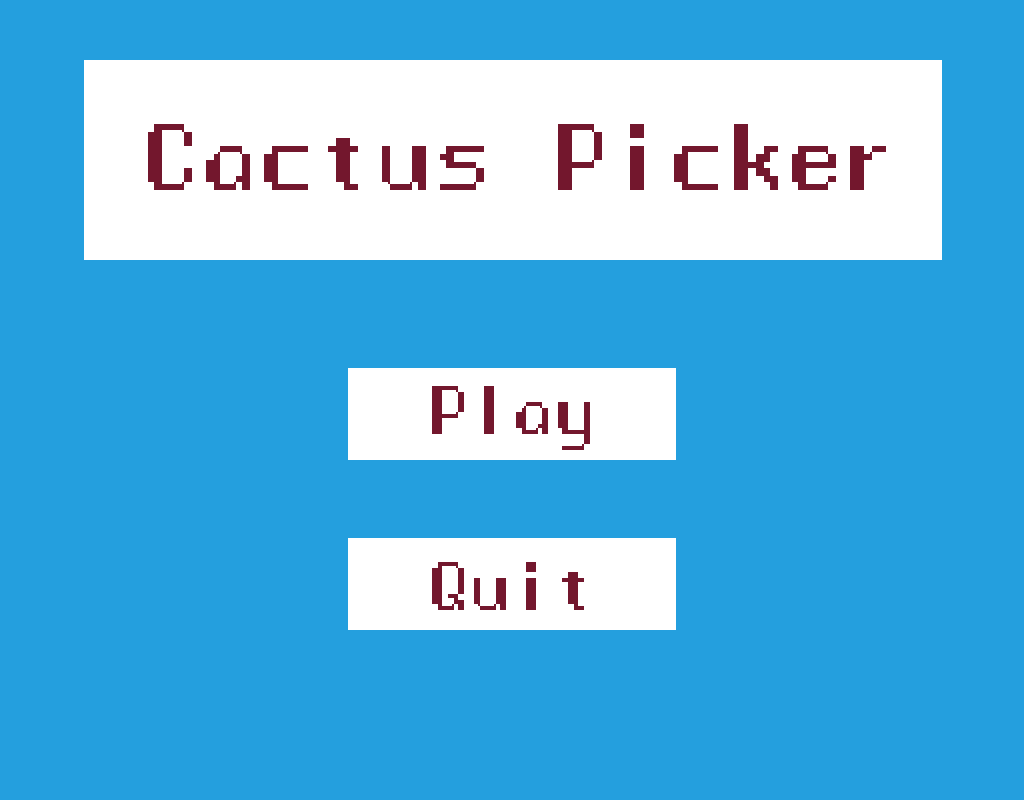
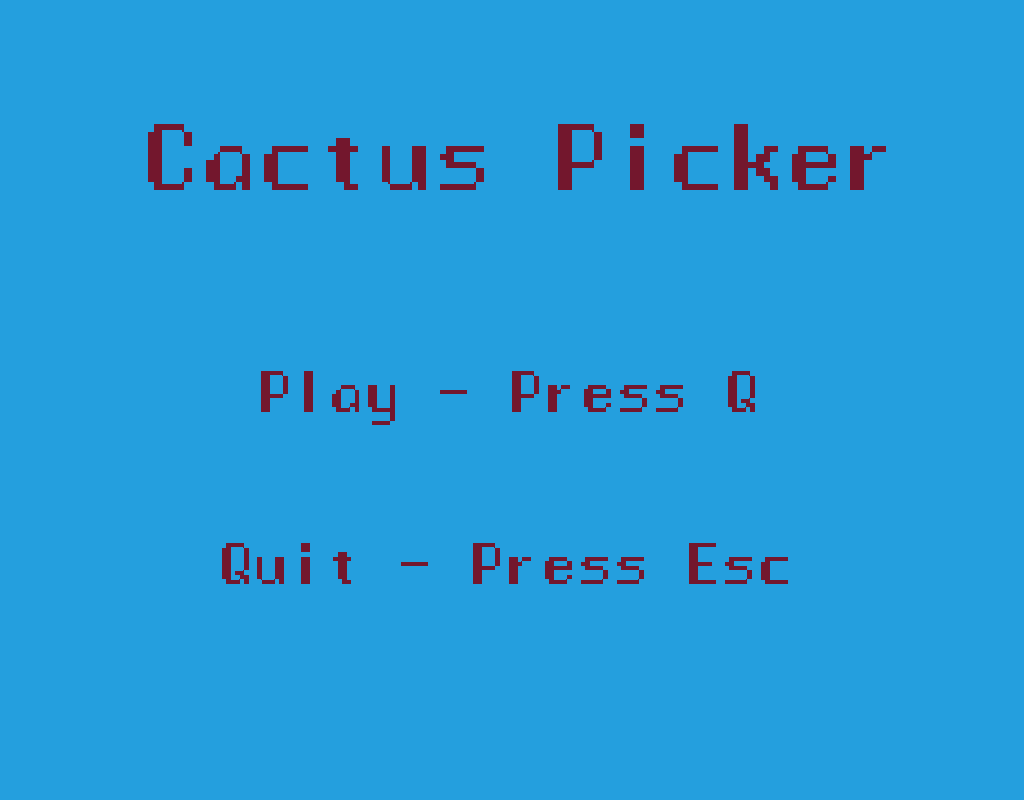
Main menu is now keyboard based so buttons don't have to scale

Changed region(s): [[0.0625, 0.0625, 0.9375, 0.3438], [0.2188, 0.6562, 0.7812, 0.8125], [0.25, 0.4375, 0.75, 0.5938]]

diff --git a/src/MainMenu.cpp b/src/MainMenu.cpp
@@ -4,6 +4,8 @@
 
 #include <SFML/Graphics/RenderWindow.hpp>
 #include <SFML/Window/Mouse.hpp>
+#include <SFML/Graphics/RectangleShape.hpp>
+#include <SFML/Window/Keyboard.hpp>
 #include "../include/GameStateSystem.h"
 #include "../include/MainMenu.h"
 
@@ -13,17 +15,6 @@ MainMenu::MainMenu()
     texture.loadFromFile("../images/main_menu.png");
     sprite.setTexture(texture);
     sprite.setPosition(0, 0);
-
-    // Set up button rects
-    play_button_rect.left = BUTTON_X;
-    play_button_rect.top = 368;
-    play_button_rect.width = BUTTON_WIDTH;
-    play_button_rect.height = BUTTON_HEIGHT;
-
-    quit_button_rect.left = BUTTON_X;
-    quit_button_rect.top = 538;
-    quit_button_rect.width = BUTTON_WIDTH;
-    quit_button_rect.height = BUTTON_HEIGHT;
 }
 
 void MainMenu::draw(sf::RenderWindow &window)
@@ -31,13 +22,12 @@ void MainMenu::draw(sf::RenderWindow &window)
     window.draw(sprite);
 }
 
-void MainMenu::handle_click(GameStateSystem &state_system, const sf::RenderWindow &window)
+void MainMenu::update(GameStateSystem &state_system)
 {
-    sf::Vector2i mouse_pos = sf::Mouse::getPosition(window);
-
-    if (play_button_rect.contains(mouse_pos)) {
+    if (sf::Keyboard::isKeyPressed(sf::Keyboard::Q)) {
         state_system.change_state(GameState::Restarting);
-    } else if (quit_button_rect.contains(mouse_pos)) {
+    }
+    else if (sf::Keyboard::isKeyPressed(sf::Keyboard::Escape)) {
         state_system.change_state(GameState::Exiting);
     }
 }

diff --git a/src/Game.cpp b/src/Game.cpp
@@ -93,14 +93,13 @@ void Game::run_main_menu(GameStateSystem &state_system)
     {
         if (current_event.type == sf::Event::Closed) {
             is_running = false;
-        } else if (current_event.type == sf::Event::MouseButtonPressed) {
-            if (current_event.mouseButton.button == sf::Mouse::Left) {
-                main_menu.handle_click(state_system, window);
-                if (state_system.get_state() == GameState::Restarting) {
-                    countdown_clock.restart();
-                }
-            }
         }
+    }
+
+    main_menu.update(state_system);
+
+    if (state_system.get_state() == GameState::Restarting) {
+        countdown_clock.restart();
     }
 
     main_menu.draw(window);

diff --git a/include/MainMenu.h b/include/MainMenu.h
@@ -9,18 +9,11 @@ class MainMenu
 private:
     sf::Texture texture;
     sf::Sprite sprite;
-
-    sf::IntRect play_button_rect;
-    sf::IntRect quit_button_rect;
-
-    static const constexpr int BUTTON_WIDTH = 329;
-    static const constexpr int BUTTON_HEIGHT = 92;
-    static const constexpr int BUTTON_X = 348;
 public:
     MainMenu();
 
     void draw(sf::RenderWindow &window);
 
-    void handle_click(GameStateSystem &state_system, const sf::RenderWindow &window);
+    void update(GameStateSystem &state_system);
 };
 #endif //CACTUS_PICKER_MAINMENU_H

diff --git a/src/Cactus.cpp b/src/Cactus.cpp
@@ -26,7 +26,9 @@ Cactus::Cactus(float x, float y)
     poked_sound_buffer.loadFromFile("../sounds/poked.wav");
     plucked_sound_buffer.loadFromFile("../sounds/plucked_spike.wav");
     poked_sound.setBuffer(poked_sound_buffer);
+    poked_sound.setVolume(50);
     plucked_spike_sound.setBuffer(plucked_sound_buffer);
+    plucked_spike_sound.setVolume(50);
 
     // Set up the spikes
     setup_spikes();

diff --git a/include/Game.h b/include/Game.h
@@ -20,7 +20,6 @@ constexpr const float INIT_CACTUS_Y = 55;
 constexpr const int WINDOW_WIDTH = 1024;
 constexpr const int WINDOW_HEIGHT = 800;
 
-// Singleton to represent the game as a whole, managing the actors and game state
 class Game
 {
 private:
